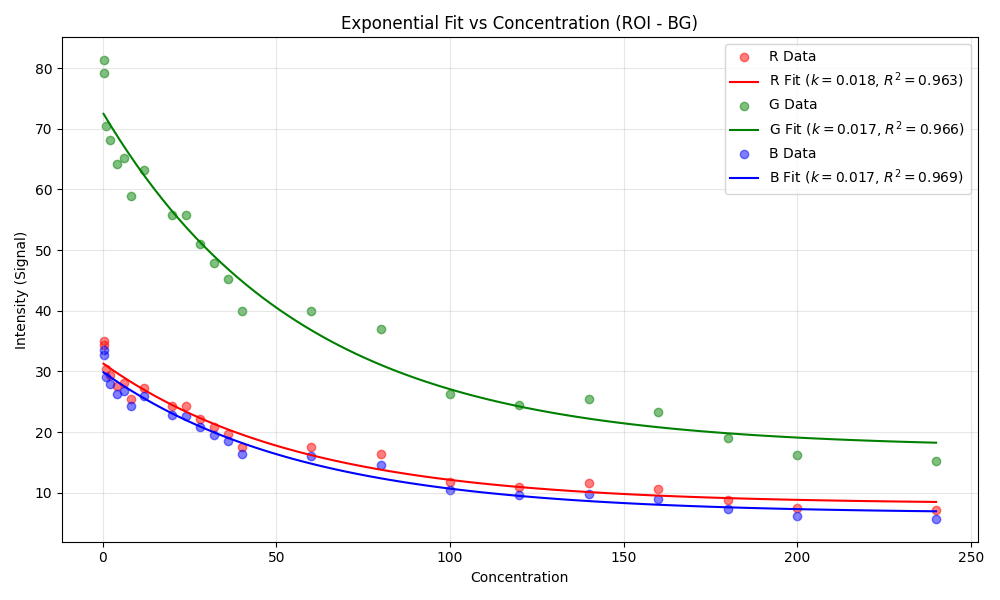
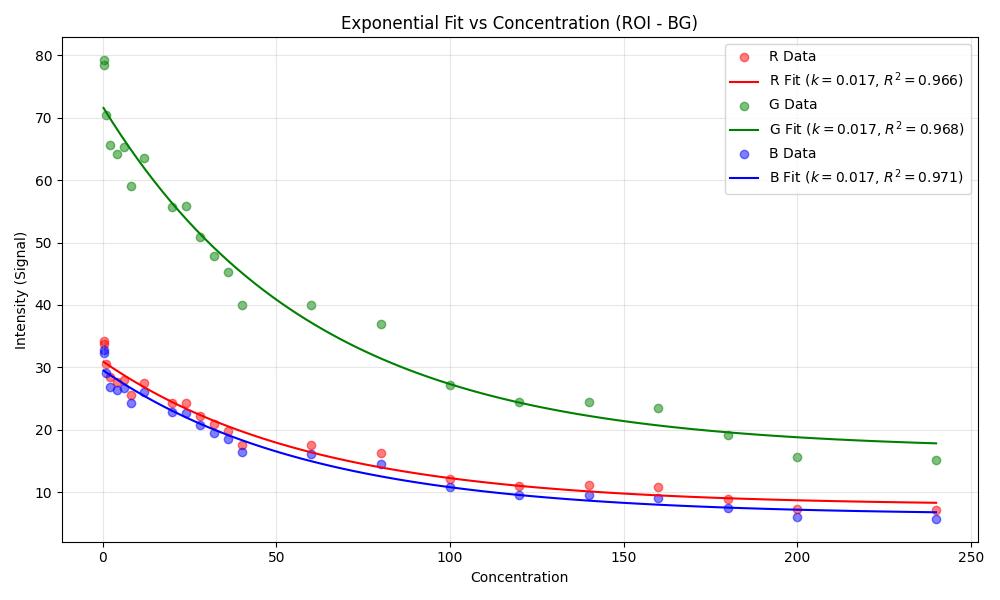
prepare for Kmeans

diff --git a/concentration/rgb_fit_output/plot_comparison.py b/concentration/rgb_fit_output/plot_comparison.py
@@ -1,0 +1,147 @@
+import pandas as pd
+import numpy as np
+import matplotlib.pyplot as plt
+import os
+
+def set_mpl_style():
+    plt.rcParams.update(
+        {
+            "font.family": ["Times New Roman", "SimSun", "STSong"],
+            "axes.unicode_minus": False,
+            "font.size": 12,
+            "axes.labelsize": 12,
+            "xtick.labelsize": 11,
+            "ytick.labelsize": 11,
+            "legend.fontsize": 11,
+            "axes.linewidth": 1.0,
+            "xtick.direction": "in",
+            "ytick.direction": "in",
+        }
+    )
+
+def main():
+    current_dir = os.path.dirname(os.path.abspath(__file__))
+    set_mpl_style()
+    
+    # 1. Load Ridge Predictions (LOO CV)
+    ridge_cv_path = os.path.join(current_dir, 'ridge_predictions_LOO_CV.csv')
+    if not os.path.exists(ridge_cv_path):
+        print(f"File not found: {ridge_cv_path}")
+        return
+    df_ridge = pd.read_csv(ridge_cv_path)
+    
+    # 2. Load G1 Intensity Data
+    rgb_pred_path = os.path.join(current_dir, 'rgb_fit_predictions.csv')
+    if not os.path.exists(rgb_pred_path):
+        print(f"File not found: {rgb_pred_path}")
+        return
+    df_rgb = pd.read_csv(rgb_pred_path)
+    
+    # 3. Load Fit Parameters for G1
+    params_path = os.path.join(current_dir, 'rgb_fit_params.csv')
+    if not os.path.exists(params_path):
+        print(f"File not found: {params_path}")
+        return
+    df_params = pd.read_csv(params_path)
+    
+    # Extract G1 parameters
+    # Assuming columns: channel,a,b,c,r2,rmse
+    g1_params = df_params[df_params['channel'] == 'G1_corr'].iloc[0]
+    a = g1_params['a']
+    b = g1_params['b']
+    c = g1_params['c']
+    
+    print(f"G1 Parameters: a={a}, b={b}, c={c}")
+    
+    # 4. Calculate Predicted Concentration from G1 Intensity (Inverse Model)
+    # Model: I = a * exp(b * C) + c
+    # Inverse: C = (1/b) * ln((I - c) / a)
+    
+    # Merge df_rgb into df_ridge or vice-versa to align data
+    # Both have filename
+    df_merged = pd.merge(df_ridge, df_rgb[['filename', 'G1_corr']], on='filename', how='inner')
+
+    # Remove points with concentration > 200
+    df_merged = df_merged[df_merged['conc_true'] <= 200]
+    
+    g1_intensity = df_merged['G1_corr']
+    
+    # Handle potential domain errors for log
+    # (I - c) / a must be > 0.
+    term = (g1_intensity - c) / a
+    valid_mask = term > 0
+    
+    if not valid_mask.all():
+        print(f"Warning: { (~valid_mask).sum() } points have invalid values for log (Intensity outside fit range).")
+    
+    # Initialize with NaNs
+    df_merged['conc_pred_g1_exp'] = np.nan
+    df_merged.loc[valid_mask, 'conc_pred_g1_exp'] = (1 / b) * np.log(term[valid_mask])
+    
+    # 5. Plot
+    fig, ax = plt.subplots(figsize=(7.2, 7.2))
+    
+    # True values from Ridge CSV (conc_true)
+    true_vals = df_merged['conc_true']
+    
+    # Plot Ridge CV Predictions
+    ax.scatter(
+        true_vals,
+        df_merged["conc_pred_cv"],
+        color="tab:blue",
+        label="岭回归（LOO-CV）",
+        alpha=0.8,
+        s=36,
+        linewidths=0,
+    )
+    
+    # Plot G1 Exponential Predictions
+    ax.scatter(
+        true_vals,
+        df_merged["conc_pred_g1_exp"],
+        color="tab:red",
+        marker="x",
+        label="指数拟合（G1）",
+        alpha=0.8,
+        s=42,
+        linewidths=1.2,
+    )
+    
+    # Plot y=x line
+    all_vals = pd.concat(
+        [true_vals, df_merged["conc_pred_cv"], df_merged["conc_pred_g1_exp"]],
+        ignore_index=True,
+    ).dropna()
+    min_val = float(all_vals.min())
+    max_val = float(all_vals.max())
+    
+    # Add a bit of padding
+    buffer = (max_val - min_val) * 0.05
+    limit_min = min_val - buffer
+    limit_max = max_val + buffer
+    
+    ax.plot(
+        [limit_min, limit_max],
+        [limit_min, limit_max],
+        "k--",
+        linewidth=1.0,
+        label="y=x",
+        zorder=0,
+    )
+    
+    ax.set_xlim(limit_min, limit_max)
+    ax.set_ylim(limit_min, limit_max)
+    ax.set_aspect("equal", adjustable="box")
+    ax.set_xlabel("真实浓度（μM）")
+    ax.set_ylabel("预测浓度（μM）")
+    ax.legend(loc="upper left", frameon=True)
+    ax.grid(True, linestyle="--", linewidth=0.8, alpha=0.5)
+    fig.tight_layout()
+    
+    out_file = os.path.join(current_dir, 'comparison_plot_ridge_vs_g1.png')
+    fig.savefig(out_file, dpi=300)
+    print(f"Plot saved to {out_file}")
+    plt.show()
+
+if __name__ == '__main__':
+    main()

diff --git a/concentration/rgb_fit_output/plot_ridge_results.py b/concentration/rgb_fit_output/plot_ridge_results.py
@@ -1,0 +1,81 @@
+import pandas as pd
+import matplotlib.pyplot as plt
+import os
+
+def set_mpl_style():
+    plt.rcParams.update(
+        {
+            "font.family": ["Times New Roman", "SimSun", "STSong"],
+            "axes.unicode_minus": False,
+            "font.size": 12,
+            "axes.labelsize": 12,
+            "xtick.labelsize": 10,
+            "ytick.labelsize": 10,
+            "legend.fontsize": 10,
+            "axes.linewidth": 1.0,
+            "xtick.direction": "in",
+            "ytick.direction": "in",
+        }
+    )
+
+def main():
+    # 获取当前脚本所在目录
+    current_dir = os.path.dirname(os.path.abspath(__file__))
+    csv_path = os.path.join(current_dir, 'ridge_predictions.csv')
+    set_mpl_style()
+
+    if not os.path.exists(csv_path):
+        print(f"Error: File not found at {csv_path}")
+        return
+
+    # 读取CSV
+    try:
+        df = pd.read_csv(csv_path)
+    except Exception as e:
+        print(f"Error reading CSV: {e}")
+        return
+
+    if df.shape[1] < 2:
+        print("Error: CSV file has fewer than 2 columns.")
+        return
+
+    # 获取前两列的数据
+    col1_name = df.columns[0]
+    col2_name = df.columns[1]
+
+    x = df[col1_name]
+    y = df[col2_name]
+
+    # 绘制曲线
+    fig, ax = plt.subplots(figsize=(10, 5.5))
+    
+    # 尝试将x轴转换为字符串以避免自动排序导致的混乱（如果它们不是数值型）
+    # 但如果为了看趋势，如果是数值型更好。
+    # 既然第一列是 filename，通常作为类别轴或者仅仅是标签
+    ax.plot(
+        x.astype(str),
+        y,
+        marker="o",
+        linestyle="-",
+        linewidth=1.0,
+        markersize=3.5,
+        label=f"{col2_name}",
+    )
+
+    ax.set_xlabel(col1_name)
+    ax.set_ylabel(col2_name)
+    ax.grid(True, linestyle="--", linewidth=0.8, alpha=0.5)
+    ax.tick_params(axis="x", rotation=45)
+    ax.legend(frameon=True)
+    fig.tight_layout()
+
+    # 保存图片
+    output_image_path = os.path.join(current_dir, 'ridge_predictions_plot.png')
+    fig.savefig(output_image_path, dpi=300)
+    print(f"Plot saved to {output_image_path}")
+    
+    # 显示图片
+    plt.show()
+
+if __name__ == '__main__':
+    main()

diff --git a/1.md b/1.md
@@ -1,0 +1,13 @@
+3.2.2软件部分：基于神经网络搭建可视化智能分析平台
+    基于神经网络的可视化智能分析平台，通过结合先进的图像处理和机器学习技术，提供高效、便捷的检测解决方案。其良好的用户体验、强大的数据分析能力和灵活的市场定位，使其在生物传感领域具备显著的竞争优势和广阔的市场前景。随着技术的不断进步和市场需求的变化，项目有望实现持续发展与创新。
+ 
+1.核心功能与技术特点
+(1)	用户交互模块：界面直观、引导式流程降低操作难度，用户轻松完成检测；支持一键完成检测流程，并可自定义参数以适应多种需求；快速反馈检测结果，生成专业报告并支持云端共享和社交分享。
+(2)	图像处理模块：通过智能手机摄像头采集高质量样品图像，支持荧光和比色模式；通过图像识别技术，自动筛选关键区域，减少人工干预，提高检测效率；分析关键区域的RGB值，为神经网络提供准确输入。
+(3)	神经网络分析模块：基于ANN优化架构，确保荧光与比色数据的高准确性和鲁棒性；通过反向传播优化模型权重，提升泛化能力；1秒内完成数据处理，快速输出目标物浓度值。
+2.技术架构
+(1)	客户端架构：移动APP实现数据采集、初步分析和结果展示，兼容iOS和Android平台。
+(2)	服务器架构：通过云服务器进行数据存储和复杂计算，确保系统运行稳定；API接口开放数据共享与功能集成，支持跨机构合作；通过云端模型分析，提供透明、高效的检测服务。
+
+3.2.3可延展性：基于SELEX模块化设计检测元件
+   基于SELEX设计不同目标物的适配体，作为可替换模块化的检测元件。SELEX技术即指数富集的配体系统进化技术(Systematic Evolution of Ligands by Exponential Enrichment)。筛选出的适配体可以作为模块化的检测元件，适用于不同目标物的快速检测。在检测系统中，通过选择适合的适配体模块，可以根据需求灵活更换、组合不同的目标物检测元件，增强生物传感器的可延展性
